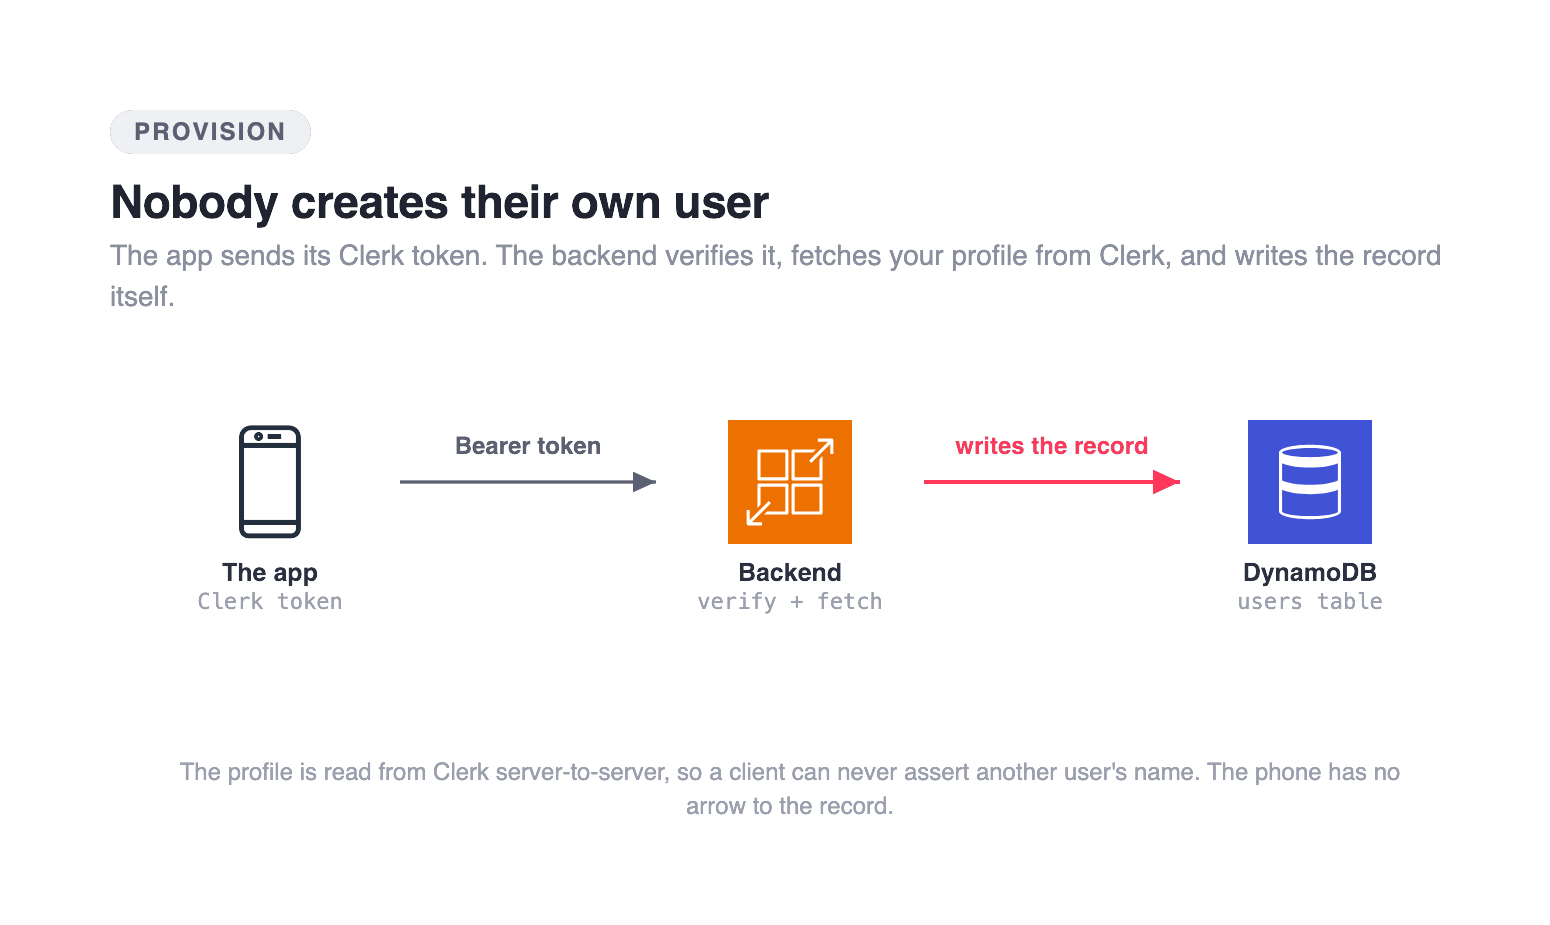
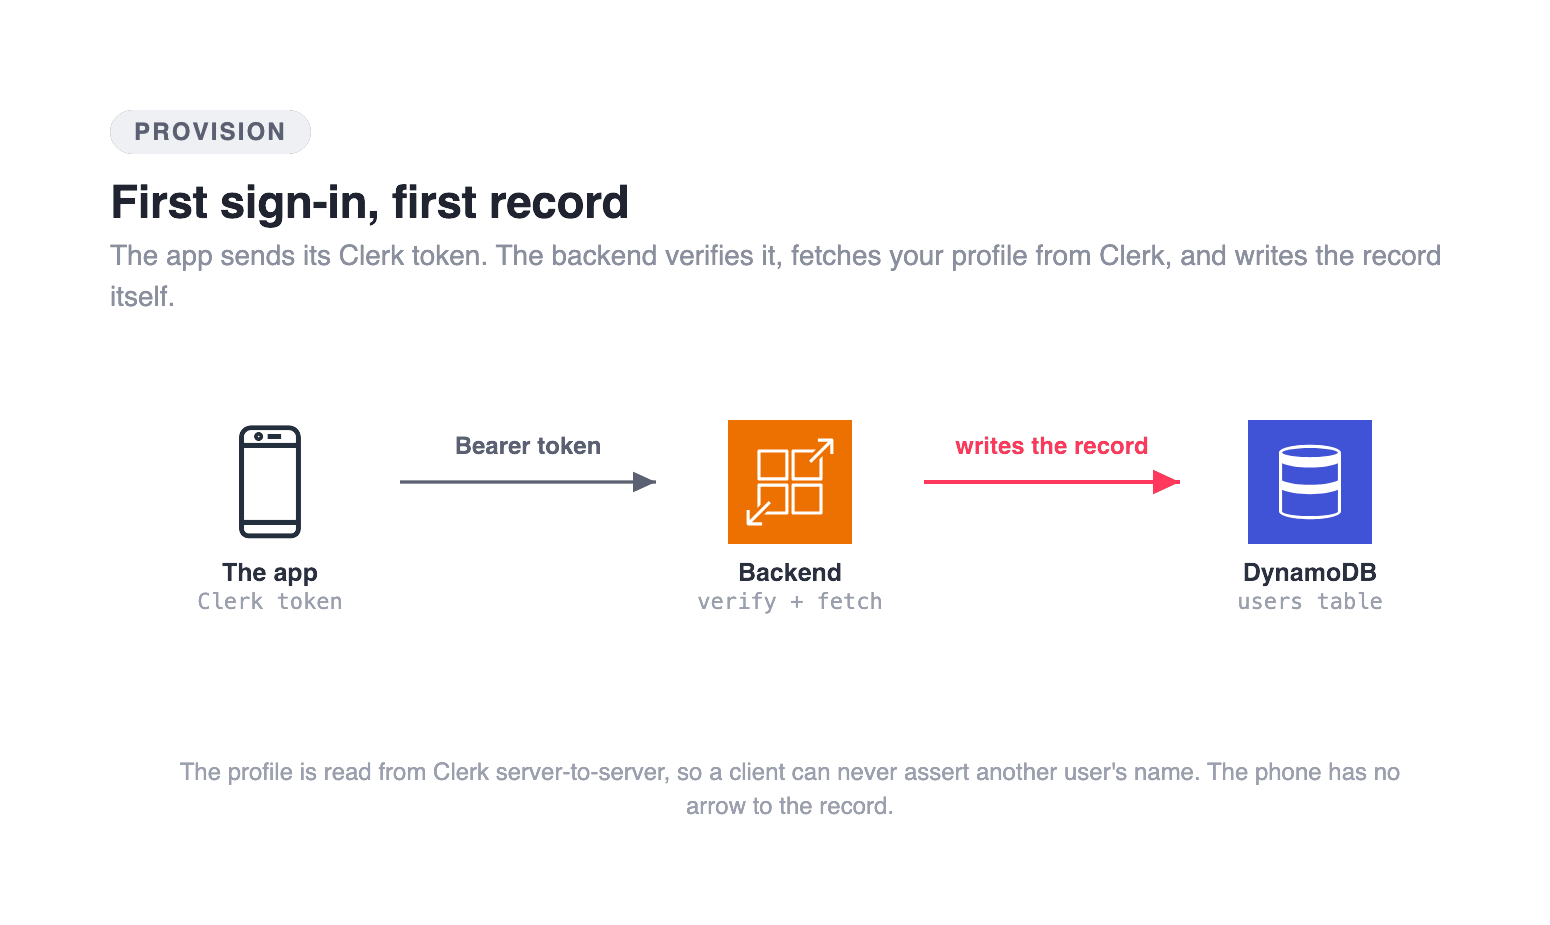
content(04-auth): provision diagram gets a scene title, not the section heading

Changed region(s): [[0.0619, 0.1816, 0.4955, 0.2422]]

diff --git a/mocks/img-04-provision.html b/mocks/img-04-provision.html
@@ -20,7 +20,7 @@
 </style></head><body>
 <div class="card">
   <span class="k">Provision</span>
-  <h1>Nobody creates their own user</h1>
+  <h1>First sign-in, first record</h1>
   <p class="sub">The app sends its Clerk token. The backend verifies it, fetches your profile from Clerk, and writes the record itself.</p>
   <div class="stage">
     <svg class="wires" viewBox="0 0 680 190">
